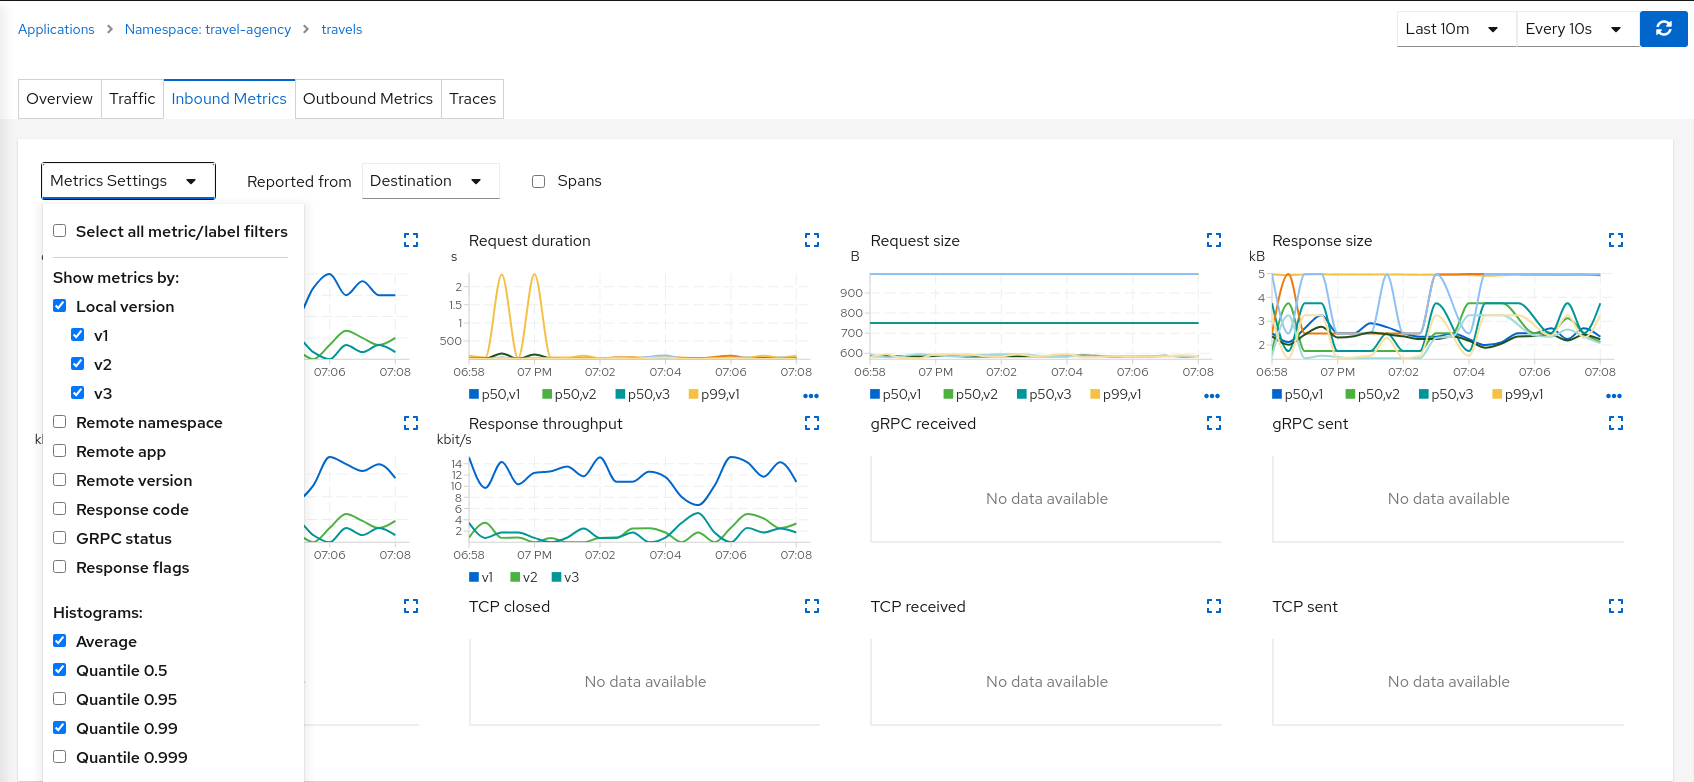
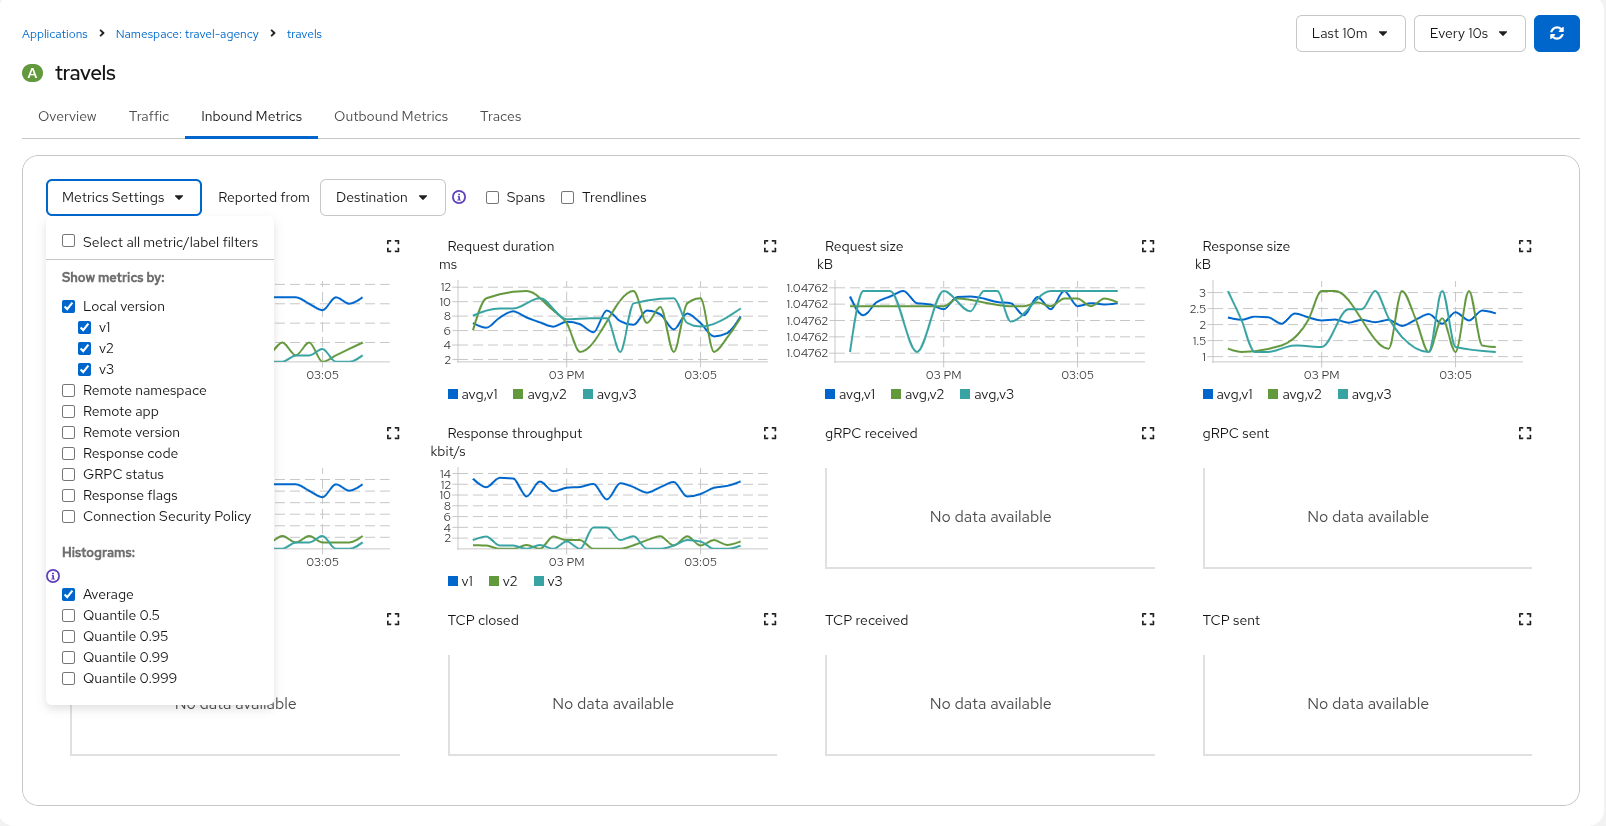
Qualify Control the Mesh sections through Request Timeouts for Kind.
Refresh Fault Injection, Traffic Shifting, TCP Traffic Shifting, and
Request Timeouts screenshots and wizard steps, including a note on avg
vs histogram quantiles for injected delays.

diff --git a/content/en/docs/Tutorials/travels/05-control-the-mesh.md b/content/en/docs/Tutorials/travels/05-control-the-mesh.md
@@ -152,9 +152,11 @@ Use the Fault Injection wizard on the *hotels* service to inject a delay
 
 ![Fault Injection Action](/images/tutorial/05-02-fault-injection-action.png "Fault Injection Action")
 
-Select **HTTP Delay** and set **Delay percentage** and **Fixed Delay**. The defaults introduce a 5 second delay on 100% of requests.
+Select **HTTP Delay** and set **Delay percentage** and **Fixed Delay** to the defaults, which introduce a 5 second delay on 100% of requests.
 
 ![HTTP Delay](/images/tutorial/05-02-http-delay.png "HTTP Delay")
+
+Create the HTTP Delay.
 
 {{% alert title="Step 2" color="success" %}}
 Understanding *source* and *destination* metrics
@@ -171,6 +173,10 @@ The *travels* workload proxy has the Fault Injection configuration so it will pe
 We can see in the *hotels* telemetry reported by the *source* (the *travels* proxy) that there is a visible gap showing 5 second delay in the request duration.
 
 ![Source Metrics](/images/tutorial/05-02-source-metrics.png "Source Metrics")
+
+{{% alert title="Note" color="info" %}}
+The **avg** line reflects the injected delay most accurately. **p50** and **p95** are estimated from Istio's Prometheus histogram buckets, not from individual request timings. When latency clusters near a bucket boundary (as it does with a fixed delay), quantiles can read lower than the configured delay — for example, with a 5s delay you may see **avg** just above 5s while **p50** reads closer to 3.7s. The same pattern appears at other delay values (try updating the scenario to 4s to compare).
+{{% /alert %}}
 
 But as the Fault Injection delay is applied on the source proxy (*travels*), the destination proxy (*hotels*) is unaffected and its destination telemetry show no delay.
 
@@ -216,7 +222,7 @@ Create a scenario with 80% of traffic to *travels-v1* and 10% each to *travels-v
 ![Split Traffic](/images/tutorial/05-03-split-traffic.png "Split Traffic")
 
 {{% alert title="Step 2" color="success" %}}
-Examine Traffic Shifting distribution from the *travel-agency* Graph
+Examine Traffic Shifting distribution from the *travel-agency* *travels* service Node Graph
 {{% /alert %}}
 
 ![Travels Graph](/images/tutorial/05-03-travels-graph.png "Travels Graph")
@@ -317,21 +323,23 @@ Repeat the [Fault Injection](#fault-injection) step to add delay on *hotels* ser
 Use the Request Routing Wizard on *travels* service to add a route rule with delay for *voyages.fr*
 {{% /alert %}}
 
-Add a rule to add a request timeout only on requests coming from *voyages.fr* portal:
+Add a request timeout only on requests coming from *voyages.fr* portal. It requires to route rules:
 
-- Use the Request Matching tab to add a matching condition for the *portal* header with *voyages.fr* value.
-- Use the Request Timeouts tab to add an HTTP Timeout for this rule.
-- Add the rule to the scenario.
+Use the Request Matching tab to add a matching condition for the *portal* header with *voyages.fr* value.
 
 ![Request Timeout Rule](/images/tutorial/05-05-request-timeout-rule.png "Request Timeout Rule")
 
-A first rule should be added to the list like:
+Use the Request Timeouts tab to add an HTTP Timeout with default values.
 
 ![Voyages Portal Rule](/images/tutorial/05-05-voyages-rule.png "Voyages Portal Rule")
 
-Add a second rule to match any request and create the scenario. With this configuration, requests coming from *voyages.fr* will match the first rule and all others will match the second rule.
+Add the first route rule to the scenario.
+
+Add a second rule to match any request.
 
 ![Any Request Rule](/images/tutorial/05-05-generic-rule.png "Any Request Rule")
+
+Create the request routing scenario. With this configuration, requests coming from *voyages.fr* will match the first rule and all others will match the second rule.
 
 {{% alert title="Step 3" color="success" %}}
 Review the impact of the request timeout in the *travels* service
